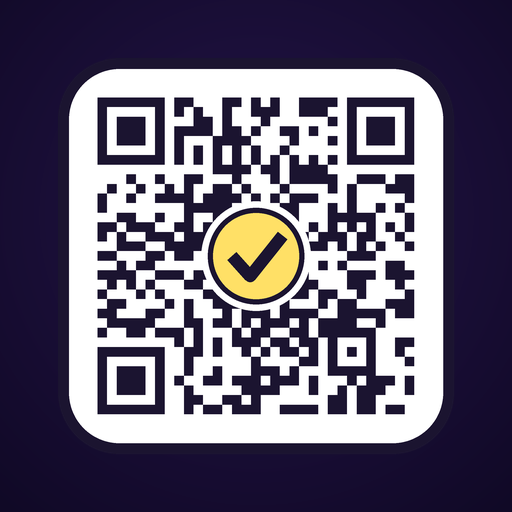
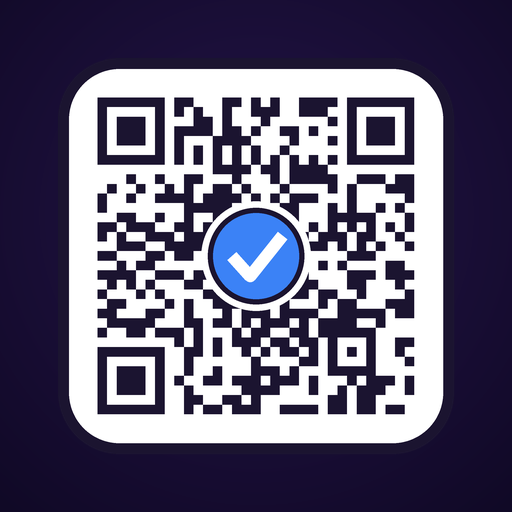
色を黄色から青に(安心感。アイコンの ✓ とボタン・わく)

Changed region(s): [[0.4062, 0.4062, 0.5938, 0.5938]]

diff --git a/index.html b/index.html
@@ -21,21 +21,21 @@
 <meta property="og:image:height" content="630">
 <meta name="twitter:card" content="summary_large_image">
 <style>
-  :root { color-scheme: dark; --bg: #140c2a; --card: #241449; --ink: #1b1430; --yellow: #ffe066; --green: #06c755; --red: #ff6b6b; --orange: #ffb347;
+  :root { color-scheme: dark; --bg: #140c2a; --card: #241449; --ink: #1b1430; --yellow: #3b82f6; --yellow-light: #93c5fd; --green: #06c755; --red: #ff6b6b; --orange: #ffb347;
     --text: #fff; --muted: #d9d2ee; --paper: #fff; --paper-ink: #1b1430; --paper-muted: #5a5274; }
   * { box-sizing: border-box; }
   html, body { margin: 0; min-height: 100%; background: var(--bg); color: var(--text);
     font-family: "Hiragino Sans", "Hiragino Kaku Gothic ProN", "Yu Gothic UI", "Meiryo", "Noto Sans JP", system-ui, sans-serif; font-size: 18px; line-height: 1.6; }
   body { padding: calc(env(safe-area-inset-top) + 10px) 14px calc(env(safe-area-inset-bottom) + 28px); max-width: 560px; margin: 0 auto; }
   button, a.btn { font: inherit; cursor: pointer; touch-action: manipulation; -webkit-tap-highlight-color: transparent; }
-  button:focus-visible, a.btn:focus-visible, input:focus-visible { outline: 4px solid var(--yellow); outline-offset: 2px; }
+  button:focus-visible, a.btn:focus-visible, input:focus-visible { outline: 4px solid var(--yellow-light); outline-offset: 2px; }
   header { display: flex; align-items: center; justify-content: space-between; gap: 8px; margin-bottom: 10px; }
   h1 { margin: 0; font-size: 26px; font-weight: 900; line-height: 1.2; }
   h1 small { display: block; font-size: 13px; font-weight: 700; color: var(--muted); }
   .tools { display: flex; gap: 6px; }
   .tool { min-width: 56px; min-height: 56px; padding: 4px 10px; border: 3px solid var(--ink); border-radius: 14px; background: #3a2a66; color: #fff; font-size: 14px; font-weight: 800; line-height: 1.15; }
   .tool b { display: block; font-size: 22px; line-height: 1.1; }
-  .tool.on { background: var(--yellow); color: var(--ink); }
+  .tool.on { background: var(--yellow); color: #fff; }
   .tool:disabled { opacity: .4; }
   .view { display: none; }
   .view.on { display: block; }
@@ -45,7 +45,7 @@
   .finder video { position: absolute; inset: 0; width: 100%; height: 100%; object-fit: cover; transform-origin: center; }
   .finder .frame { position: absolute; inset: 14%; border-radius: 16px; pointer-events: none;
     box-shadow: 0 0 0 9999px rgba(0, 0, 0, .35); }
-  .finder .frame i { position: absolute; width: 42px; height: 42px; border: 6px solid var(--yellow); border-radius: 6px; }
+  .finder .frame i { position: absolute; width: 42px; height: 42px; border: 6px solid var(--yellow-light); border-radius: 6px; }
   .finder .frame i:nth-child(1) { left: -6px; top: -6px; border-right: 0; border-bottom: 0; }
   .finder .frame i:nth-child(2) { right: -6px; top: -6px; border-left: 0; border-bottom: 0; }
   .finder .frame i:nth-child(3) { left: -6px; bottom: -6px; border-right: 0; border-top: 0; }
@@ -64,7 +64,7 @@
   .row { display: grid; grid-template-columns: 1fr 1fr; gap: 10px; margin-top: 12px; }
   .row.one { grid-template-columns: 1fr; }
   .big { display: block; width: 100%; font: inherit; font-weight: 900; font-size: 22px; padding: 16px 12px; border: 4px solid var(--ink); border-radius: 999px;
-    background: var(--yellow); color: var(--ink); text-align: center; text-decoration: none; line-height: 1.3; min-height: 64px; }
+    background: var(--yellow); color: #fff; text-align: center; text-decoration: none; line-height: 1.3; min-height: 64px; }
   .big.green { background: var(--green); color: #fff; }
   .big.sub { background: #fff; color: var(--ink); font-size: 19px; }
   .big.ghost { background: #3a2a66; color: #fff; font-size: 19px; }
@@ -91,8 +91,8 @@
   .paper .field .v { font-size: 22px; font-weight: 800; overflow-wrap: anywhere; }
   .paper .field .v.mono { font-family: ui-monospace, "SF Mono", Menlo, Consolas, monospace; letter-spacing: .04em; }
   .paper .field .v small { font-size: 15px; font-weight: 700; color: var(--paper-muted); }
-  .paper .mini { display: inline-block; font: inherit; font-size: 16px; font-weight: 800; padding: 8px 14px; border: 3px solid var(--ink); border-radius: 999px; background: var(--yellow); color: var(--ink); margin: 6px 6px 0 0; text-decoration: none; min-height: 44px; }
-  .paper .mini.white { background: #fff; }
+  .paper .mini { display: inline-block; font: inherit; font-size: 16px; font-weight: 800; padding: 8px 14px; border: 3px solid var(--ink); border-radius: 999px; background: var(--yellow); color: #fff; margin: 6px 6px 0 0; text-decoration: none; min-height: 44px; }
+  .paper .mini.white { background: #fff; color: var(--ink); }
   .check { border-radius: 14px; padding: 12px 14px; margin-bottom: 12px; font-weight: 700; font-size: 17px; line-height: 1.55; border: 3px solid; }
   .check.ok { background: #0e3a22; border-color: #06c755; }
   .check.warn { background: #4a3410; border-color: var(--orange); }
@@ -119,7 +119,7 @@
   .sheet.on { display: block; }
   .sheet .in { background: var(--card); border: 4px solid var(--ink); border-radius: 20px; padding: 18px; max-width: 560px; margin: calc(env(safe-area-inset-top) + 10px) auto 40px; }
   .sheet h2 { font-size: 22px; margin: 0 0 8px; }
-  .sheet h3 { font-size: 18px; margin: 18px 0 4px; color: var(--yellow); }
+  .sheet h3 { font-size: 18px; margin: 18px 0 4px; color: var(--yellow-light); }
   .sheet p, .sheet li { font-size: 17px; line-height: 1.65; margin: 0 0 6px; }
   .sheet ul { padding-left: 1.3em; margin: 0; }
   footer { font-size: 14px; color: var(--muted); line-height: 1.6; margin-top: 18px; text-align: center; }
@@ -178,7 +178,7 @@
 <div class="sheet" id="help">
   <div class="in">
     <h2>使い方</h2>
-    <p>1. アプリを開くと カメラが動きます。QRコードを 黄色いわくの中に 入れるだけ。</p>
+    <p>1. アプリを開くと カメラが動きます。QRコードを 青いわくの中に 入れるだけ。</p>
     <p>2. 読めると「どこへ行くか」「何が書いてあるか」を先に見せます。<b>勝手には開きません。</b></p>
     <p>3. 内容を確かめて、大きなボタンを押します(「開く」「電話をかける」など)。</p>
     <h3>読めないとき</h3>

diff --git a/sw.js b/sw.js
@@ -3,7 +3,7 @@
    アプリは index.html + lib/jsQR.js で完結しているので、それと アイコン類だけを覚えておく。
    index.html を直しただけなら VERSION は そのままでいい(開くたびに、まずネットで最新を取りにいくので)。
    FILES(覚えるファイル)を変えたときだけ VERSION を 1つ上げる(古い覚えを 一斉に捨てる)。 */
-const VERSION = 'qr-v2';
+const VERSION = 'qr-v3';
 const FILES = ['./', 'index.html', 'lib/jsQR.js', 'manifest.webmanifest', 'icon-192.png', 'icon-512.png', 'maskable-512.png', 'apple-touch-icon.png'];
 
 self.addEventListener('install', (e) => {
